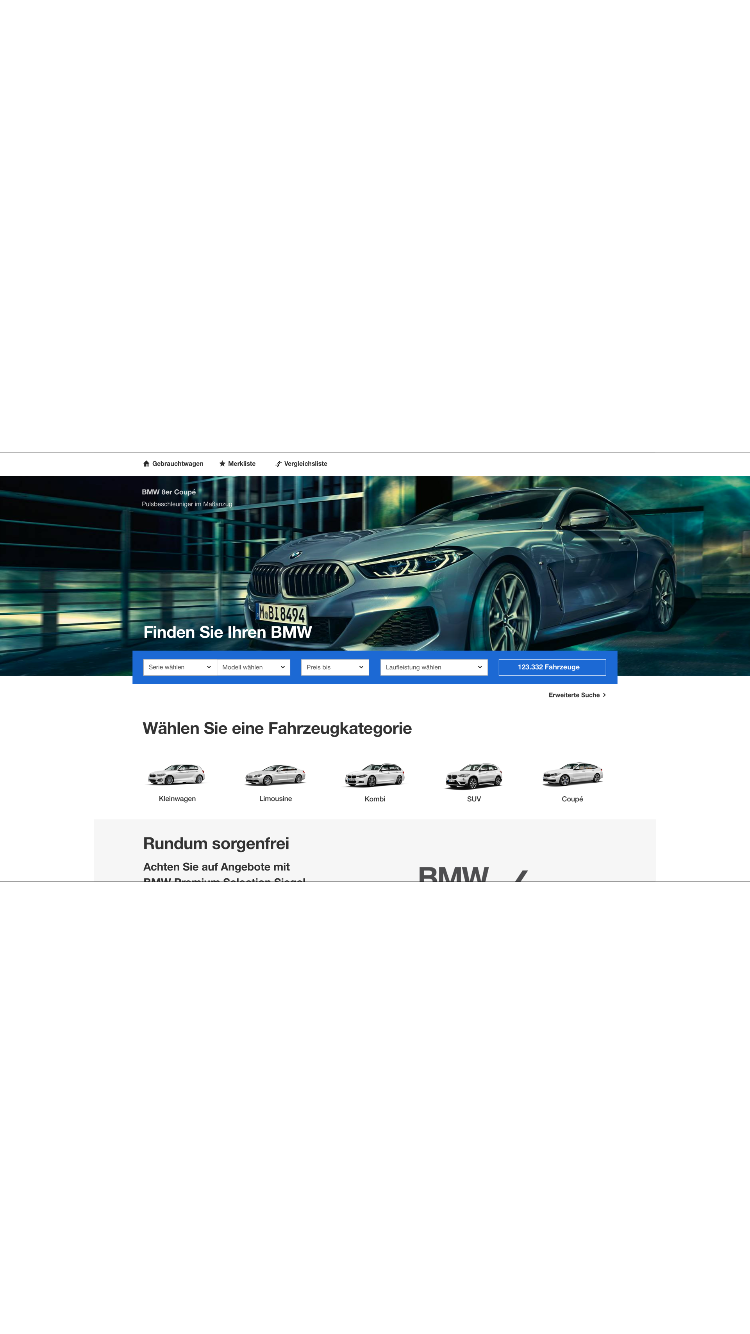
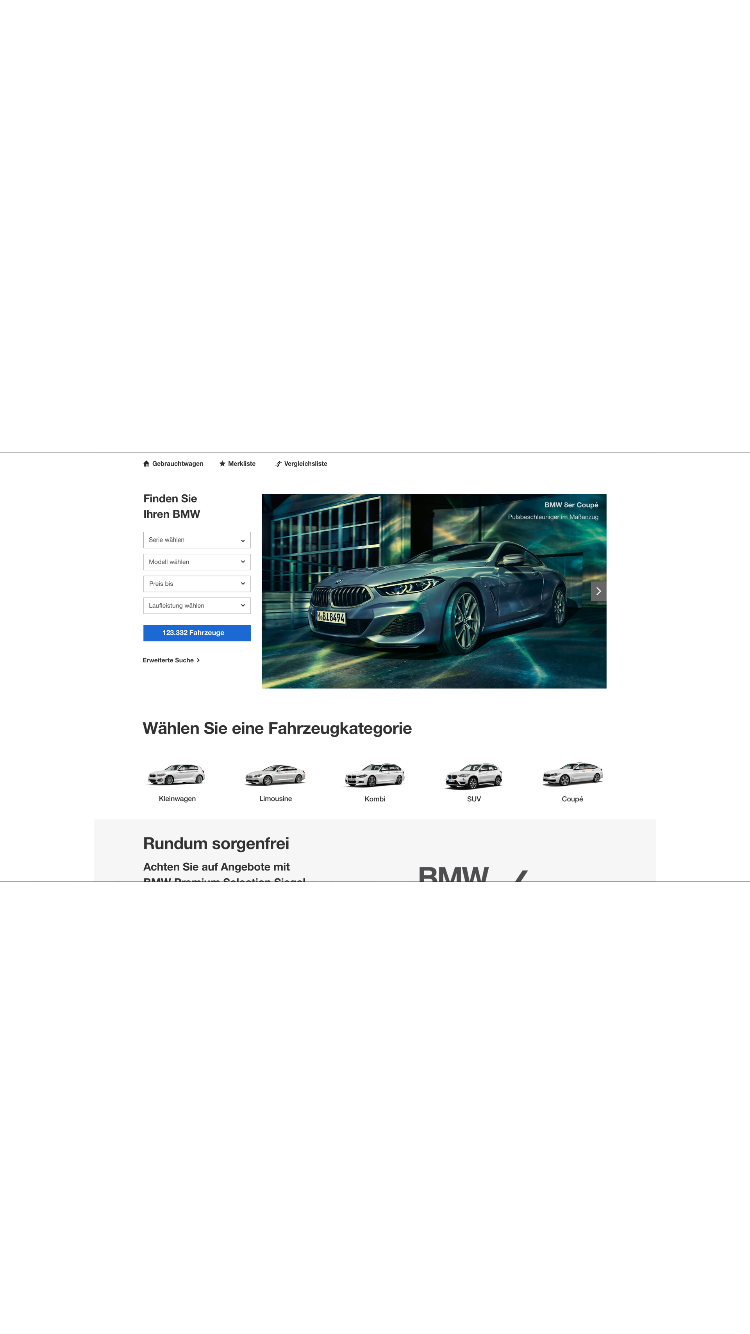
home 2 iteration

Changed region(s): [[0.0, 0.3381, 1.0, 0.5225]]

diff --git a/.preview.html b/.preview.html
@@ -33,7 +33,7 @@
 	<script src="framer/framer.generated.js?nocache=9c5f961481bbdab5207142617c00f5ee"></script>
 	<script src="framer/framer.modules.js?nocache=16ddf72fafc6eb6c415ccacc0f41eb4b"></script>
 	<script src="framer/framer.vekter.js"></script>
-	<script>document.addEventListener("DOMContentLoaded", function() {window.__framerClientCodeId = 491;window.__framerNew = function (n,loc,th,i){if (i == null) { return i };i.__framerInstanceInfo = _.defaults({name:n,location:loc,hash:th},i.__framerInstanceInfo);_.defaults(i.__framerInstanceInfo,{name:"Untitled"});return i;};window.__framerAnimation = function (th,a){if (a.isNoop === true) {return a;};var l = a.layer;if (l == null) { return a; };if (l.__framerAnimationInfo == null) {l.__framerAnimationInfo = {};};l.__framerAnimationInfo[th] = {originalState:a._originalState, destinationProperties: a.properties, destinationOptions: a.options};return a;};(function() {
+	<script>document.addEventListener("DOMContentLoaded", function() {window.__framerClientCodeId = 498;window.__framerNew = function (n,loc,th,i){if (i == null) { return i };i.__framerInstanceInfo = _.defaults({name:n,location:loc,hash:th},i.__framerInstanceInfo);_.defaults(i.__framerInstanceInfo,{name:"Untitled"});return i;};window.__framerAnimation = function (th,a){if (a.isNoop === true) {return a;};var l = a.layer;if (l == null) { return a; };if (l.__framerAnimationInfo == null) {l.__framerAnimationInfo = {};};l.__framerAnimationInfo[th] = {originalState:a._originalState, destinationProperties: a.properties, destinationOptions: a.options};return a;};(function() {
   var buttonLabels, buttons, checkCompareState, checkFavState, checkFilterSection, checkState, comparisonList, favorited, filterBar, filterButtonBar, filterNavigation, i, j, k, len, mainNavigation, star, stars,
     indexOf = [].indexOf || function(item) { for (var i = 0, l = this.length; i < l; i++) { if (i in this && this[i] === item) return i; } return -1; };
 
@@ -89,7 +89,7 @@
     return checkState();
   });
 
-  mainNavigation.showNext(home1);
+  mainNavigation.showNext(home2);
 
   filterMask.onClick(function() {
     mainNavigation.showNext(list1, {
@@ -106,7 +106,7 @@
   });
 
   homeLink.onClick(function() {
-    mainNavigation.showNext(home1, {
+    mainNavigation.showNext(home2, {
       animate: false
     });
     return checkState();
